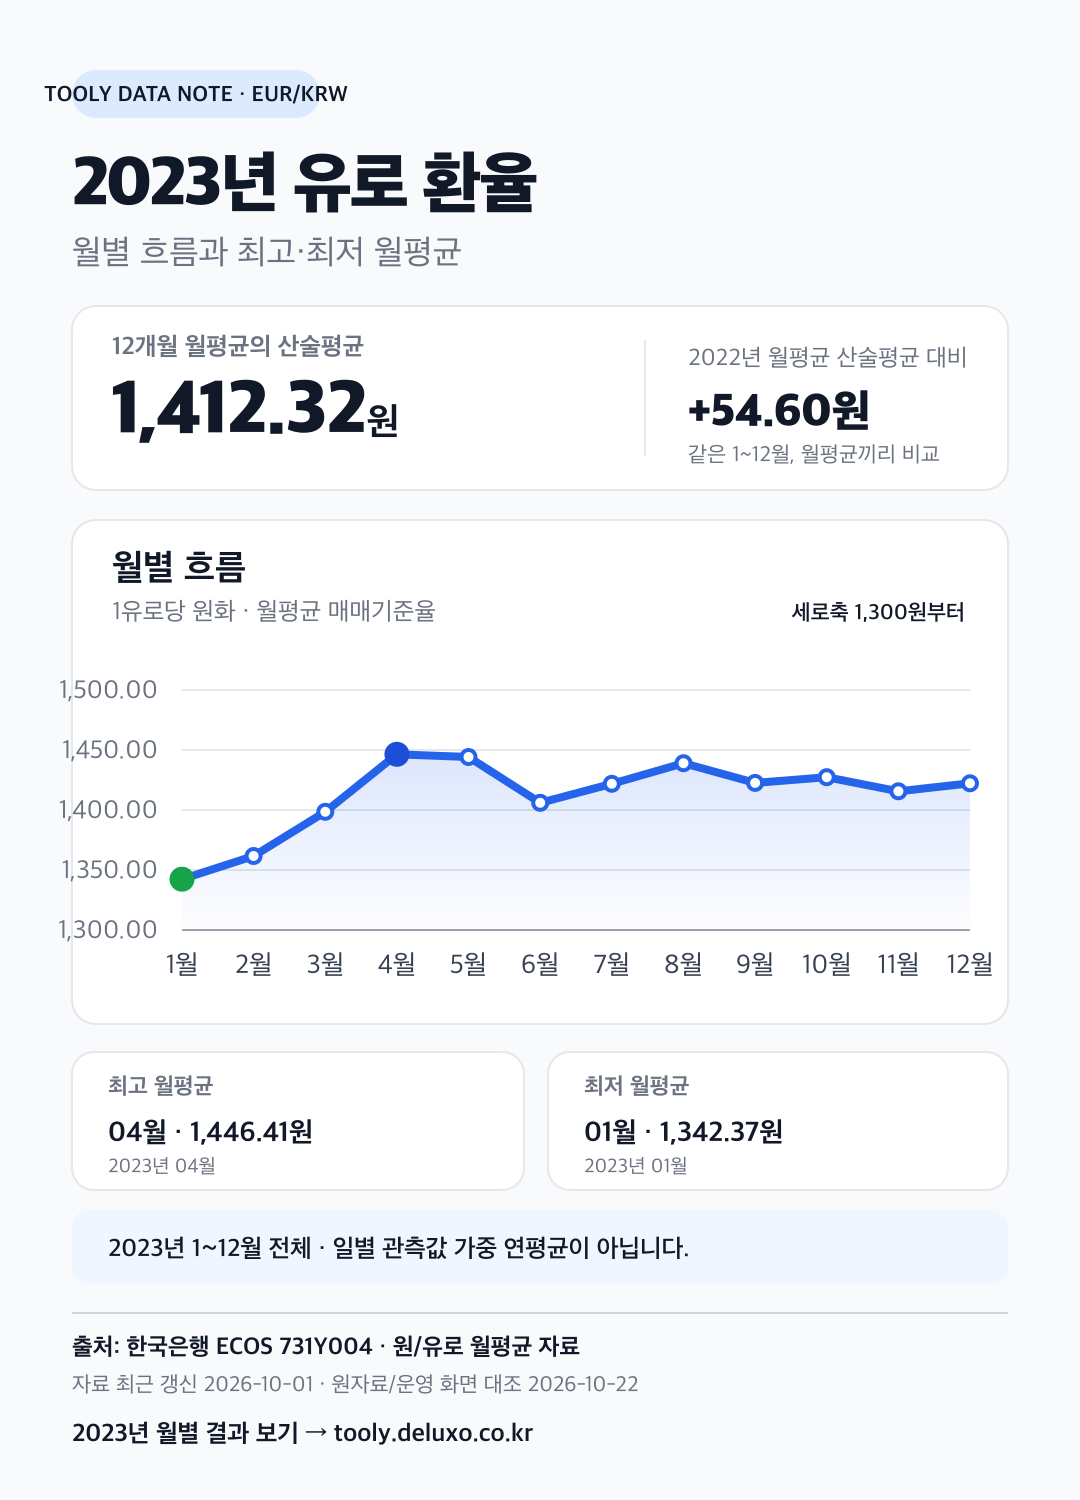
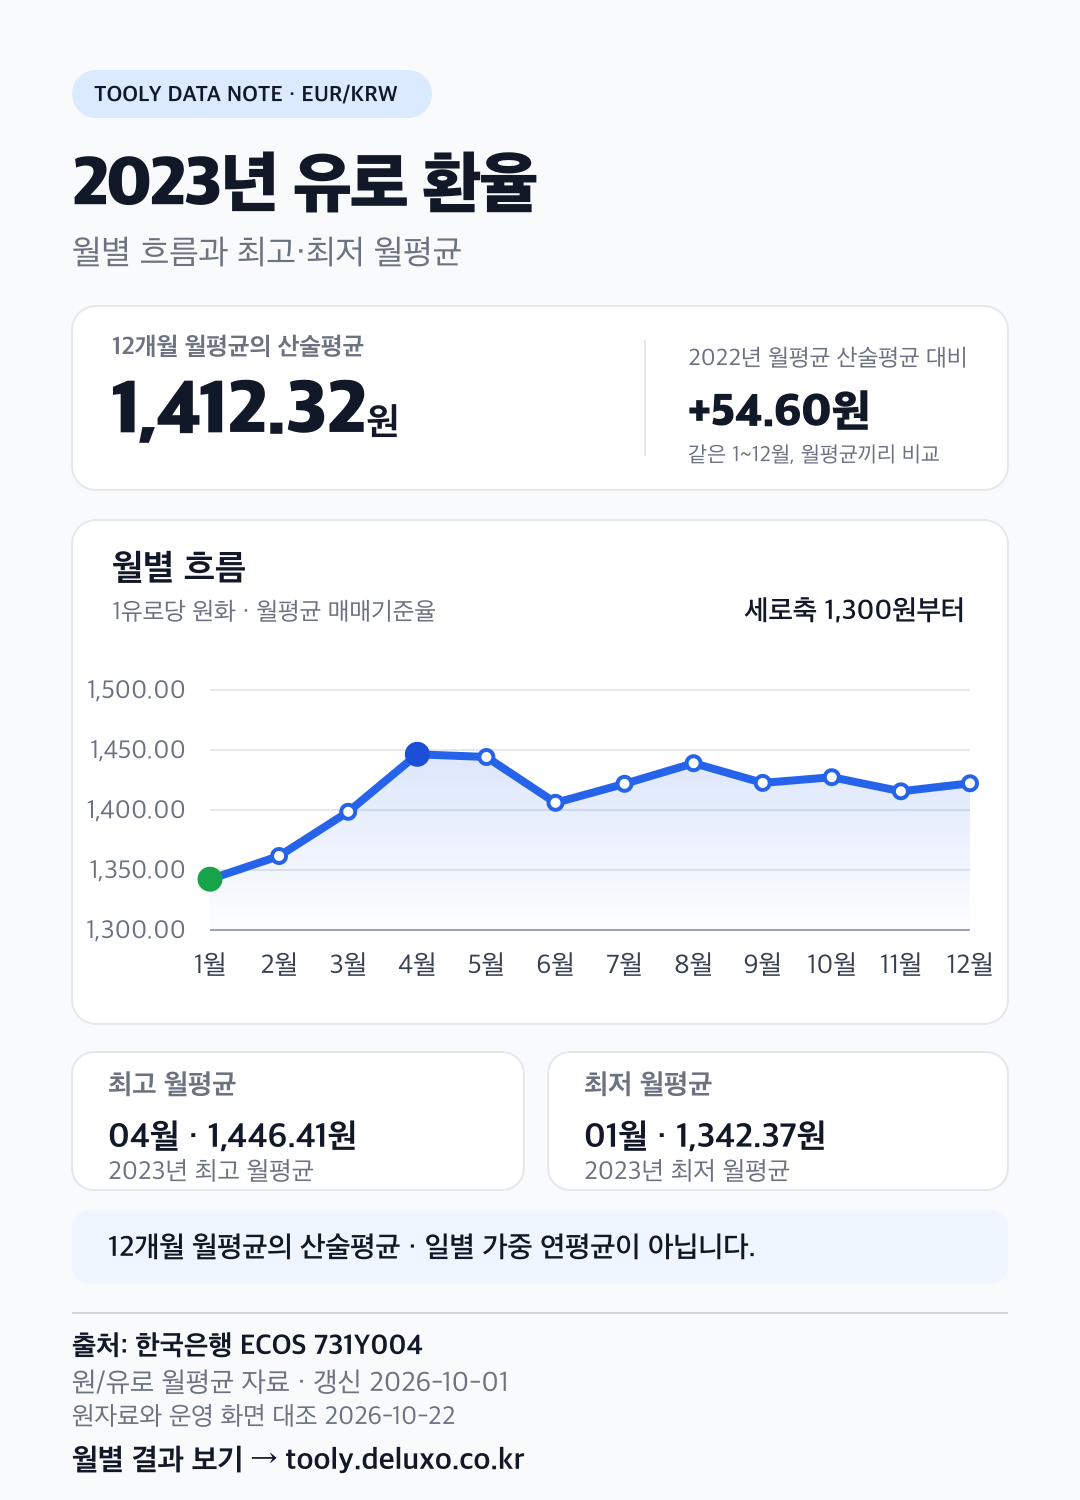
Refine EUR KRW distribution card

diff --git a/marketing/distribution/eur-2023/README.md b/marketing/distribution/eur-2023/README.md
@@ -25,4 +25,4 @@ Regenerate from the repository root with `node marketing/distribution/eur-2023/g
 
 Canonical result page: <https://tooly.deluxo.co.kr/data/exchange/eur-krw?year=2023>
 
-The UTM-tagged variants are in `post-copy.md`. Remove or change their campaign values if a publisher needs its own attribution. No external post or outreach was made as part of preparing this package.
+The UTM-tagged variants are in `post-copy.md`. For an external publisher, replace `utm_source=publisher` with that outlet's identifier while keeping `utm_medium=referral` and `utm_campaign=eur_year_card`. The separate Naver Blog QA URL uses `utm_source=naver_blog`. No external post or outreach was made as part of preparing this package.

diff --git a/marketing/distribution/eur-2023/post-copy.md b/marketing/distribution/eur-2023/post-copy.md
@@ -10,6 +10,8 @@
 
 https://tooly.deluxo.co.kr/data/exchange/eur-krw?year=2023&utm_source=publisher&utm_medium=referral&utm_campaign=eur_year_card&utm_content=body
 
-## NBlog QA 링크(기본 링크와 분리)
+외부 배포 시 `utm_source=publisher`를 실제 배포처 식별자로 바꾸고 `utm_medium=referral`, `utm_campaign=eur_year_card`는 유지하세요.
 
-https://tooly.deluxo.co.kr/data/exchange/eur-krw?year=2023&utm_source=nblog&utm_medium=referral&utm_campaign=eur_year_card&utm_content=post_body
+## Naver Blog QA 링크(기본 링크와 분리)
+
+https://tooly.deluxo.co.kr/data/exchange/eur-krw?year=2023&utm_source=naver_blog&utm_medium=referral&utm_campaign=eur_year_card&utm_content=post_body
